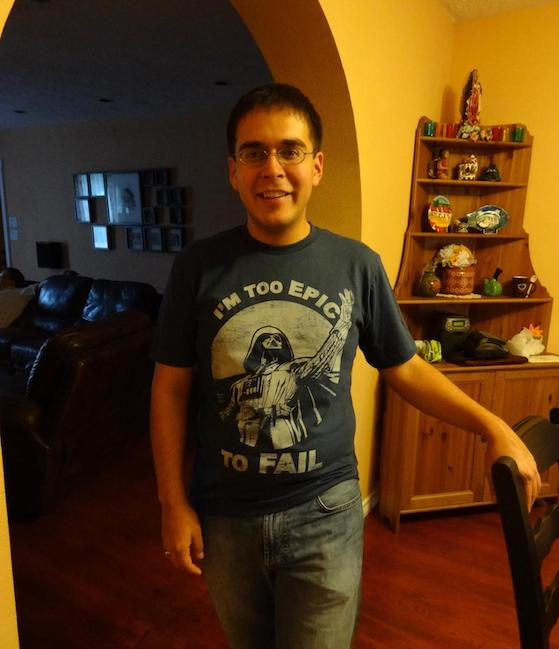
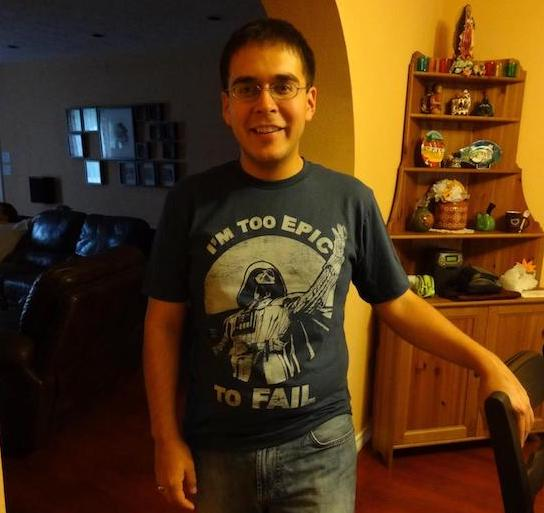
Modifying even more info on my website

diff --git a/AboutMe.html b/AboutMe.html
@@ -12,10 +12,15 @@
     <a href="Pages.html" class="navigation">Personal Websites</a>
   </nav>
 </head>
-<h1>Miguel Angel Ibarra, Jr.</h1>
-<img src="Miguel3.jpg">
-<p>Hi there! Welcome to my personal GitHub page! If there was one word that best describes who I am, it would be <em>curious</em>. I am like a cat, always wanting to look at what's in that shoe box, and trying to understand how the world works.</p>
-<p>That being said, I think no word can encapsulate all the particularities of our personalities and no word can sum up the experiences of our lives. I am no different. I'm an engineer by training with a soft spot for visual arts. I think I’m an introvert, but my co-workers would say I’m extroverted. And even with traditional degrees from well established public and private universities, I am still learning from non-traditional schooling (coding bootcamps) and from the people around me. Nonetheless, here’s an inkling of who I am…</p>
+<h1 class="center">My Biography</h1>
+<figure>
+  <img src="Miguel3.jpg" class="imgcenter_resize"><br>
+  <figcaption class="center">Miguel Angel Ibarra, Jr. (aka Mickey, Miggs or just Miguel)</figcaption>
+</figure>
+<p class="frontpage">Hi there! Welcome to my personal GitHub page! If there was one word that best describes who I am, it would be <em>curious</em>. I am like a cat, always wanting to look at what's in that shoe box, and trying to understand how the world works.
+<br>
+<br>
+That being said, I think no word can encapsulate all the particularities of our personalities and no word can sum up the experiences of our lives. I am no different. I'm an engineer by training with a soft spot for visual arts. I think I’m an introvert, but my co-workers would say I’m extroverted. And even with traditional degrees from well established public and private universities, I am still learning from non-traditional schooling (coding bootcamps) and from the people around me. Nonetheless, here’s an inkling of who I am…</p>
 <h3>My hobbies, both past and present (note my past hobbies are denoted by an asterisk*):</h3>
 <table>
   <tr>
@@ -39,14 +44,14 @@
       </ul>
     </td>
     <td>
-      <img src="Miguel2.jpg">
-      <p><small>Me enjoying two of my favorite activities: biking and beer! (Beer Bike 2013)</small></p>
+      <img src="Miguel2.jpg" class="imgcenter">
+      <p>Me enjoying two of my favorite activities: biking and beer! (Beer Bike 2013)</p>
     </td>
   </tr>
 </table>
 
 <p>I am originally from Houston, TX, fully born and raised in the great state of Texas. My family however is from Monterrey, Nuevo Leon, Mexico (somos Norteños). After graduating Rice University, I moved to the Pacific Northwest in 2011 to work for the Boeing Company as an aerospace structural engineer.</p>
-<img src="Tech_Miguel.jpg">
+<img src="Tech_Miguel.jpg" class="imgcenter">
 <p><small>Me trying out Google Glass back in 2014. I love keeping up with technology trends!</small></p>
 <p>After six years working in aerospace, I was laid off from Boeing in June 2017. Although initially it sucked, it did give me the motivation to try something different. That something different was in the tech field—I always liked keeping up with the latest trends in tech, and the idea of working for a tech company always appealed to me. So here I am, learning how to write code with <a href="https://devbootcamp.com/welcome">Dev Bootcamp</a>! As of July 2017, I am just starting out, but I am excited about the possibilities.</p>
 <p>Check back to see my progress as a coder. Hopefully you will see some progress!</p>

diff --git a/Articles.html b/Articles.html
@@ -2,26 +2,29 @@
 <html>
 <head>
   <title>Articles</title>
+  <link rel="stylesheet" type="text/css" href="style.css">
+  <nav>
+    <a href="index.html" class="home">Home</a>
+    <a href="AboutMe.html" class="navigation">About Me</a>
+    <a href="WorkHistory.html" class="navigation">Work History</a>
+    <a href="Update.html" class="navigation">Personal Update</a>
+    <a href="FunnyQuotes.html" class="navigation">Funny Quotes</a>
+    <a href="Pages.html" class="navigation">Personal Websites</a>
+  </nav>
 </head>
 <body>
-<div class="topnav" id="MiguelsTopNavBar">
-  <a href="index.html">Home</a>
-  <a href="AboutMe.html">About Me</a>
-  <a href="WorkHistory.html">Work History</a>
-  <a href="Update.html">Personal Update</a>
-  <a href="FunnyQuotes.html">Funny Quotes</a>
-  <a href="Articles.html">Cool Articles</a>
-  <a href="Pages.html">Personal Websites</a>
-</div>
 <h1>Cool Articles</h1>
 <p>This is just a collection of cool articles I've seen on the web. I'll try to keep it updated as I see new content.</p>
 <h2>Tech News</h2>
 <ul>
+  <li><a href="https://www.cnet.com/roadshow/auto/2019-audi-a8/preview/">How much fancy tech can Audi shove into the 2019 Audi A8?</a></li>
   <li><a href="https://www.theverge.com/2017/7/7/15934756/tesla-model-3-production-electric-car-musk">Everything you need to know about Tesla Model 3, which is starting production</a> -The Verge</li>
   <li><a href="https://www.wired.com/story/juno-shatters-scientists-jupiter-theories-in-just-365-days/">Juno Shatters Scientist's Juper Theories in just 365 Days</a> -Wired</li>
 </ul>
 <h2>World News</h2>
 <ul>
+  <li><a href="http://www.newyorker.com/magazine/2017/07/24/how-trump-is-transforming-rural-america">How Trump is Transforming Rural America</a>
+  <li><a href="https://www.ft.com/content/bf0025aa-6720-11e7-8526-7b38dcaef614">Britain is incapable of managing Brexit and calamity will follow</a></li>
   <li><a href="https://www.theatlantic.com/magazine/archive/2017/07/the-worst-problem-on-earth/528717/">How to Deal With North Korea</a> -The Atlantic</li>
   <li><a href="https://www.realclearpolitics.com/2017/07/03/america039s_future_is_texas_414569.html">America's Future Is Texas</a> -The New Yorker</li>
 </ul>

diff --git a/style.css b/style.css
@@ -93,3 +93,24 @@ footer{
   font-size: 13px;
   text-align: center;
 }
+
+.imgcenter{
+  display: inline-block;
+  margin-left: auto;
+  margin-right: auto;
+  border: 2px solid black;
+  border-collapse: collapse;
+  box-shadow: 5px 5px 5px 0 rgba(0,0,0,0.5);
+}
+
+.imgcenter_resize{
+  max-width: 266px;
+  max-height: 251px;
+  display: block;
+  margin-right: auto;
+  margin-left: auto;
+  border: 2px solid black;
+  border-collapse: collapse;
+  box-shadow: 5px 5px 5px 0 rgba(0,0,0,0.5);
+
+}
